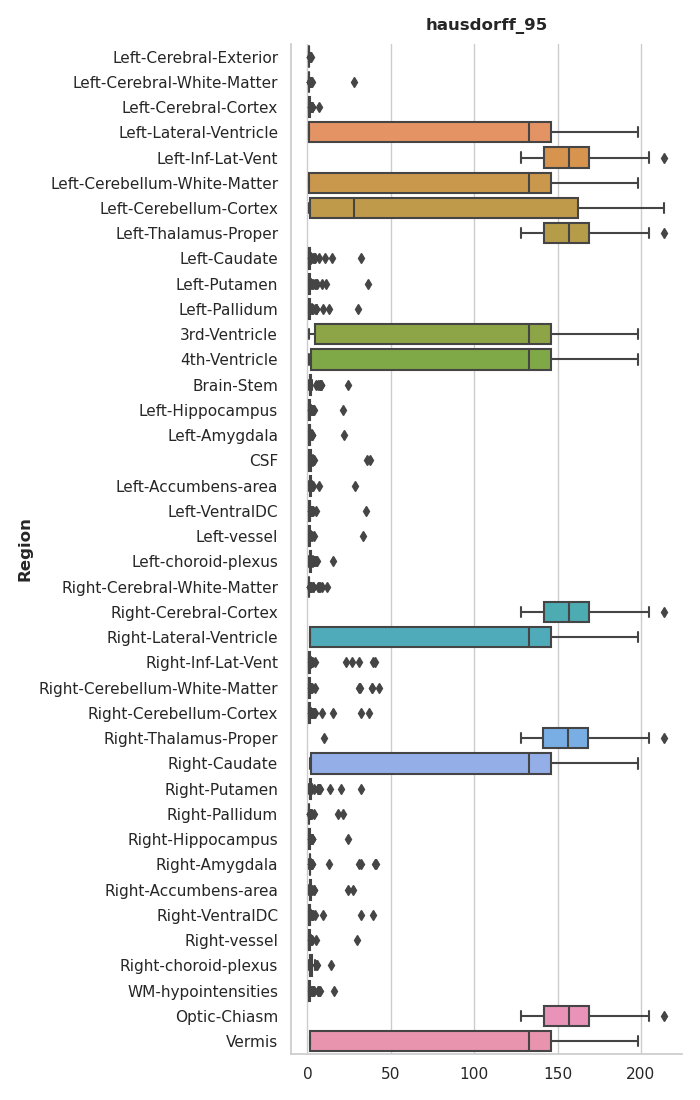
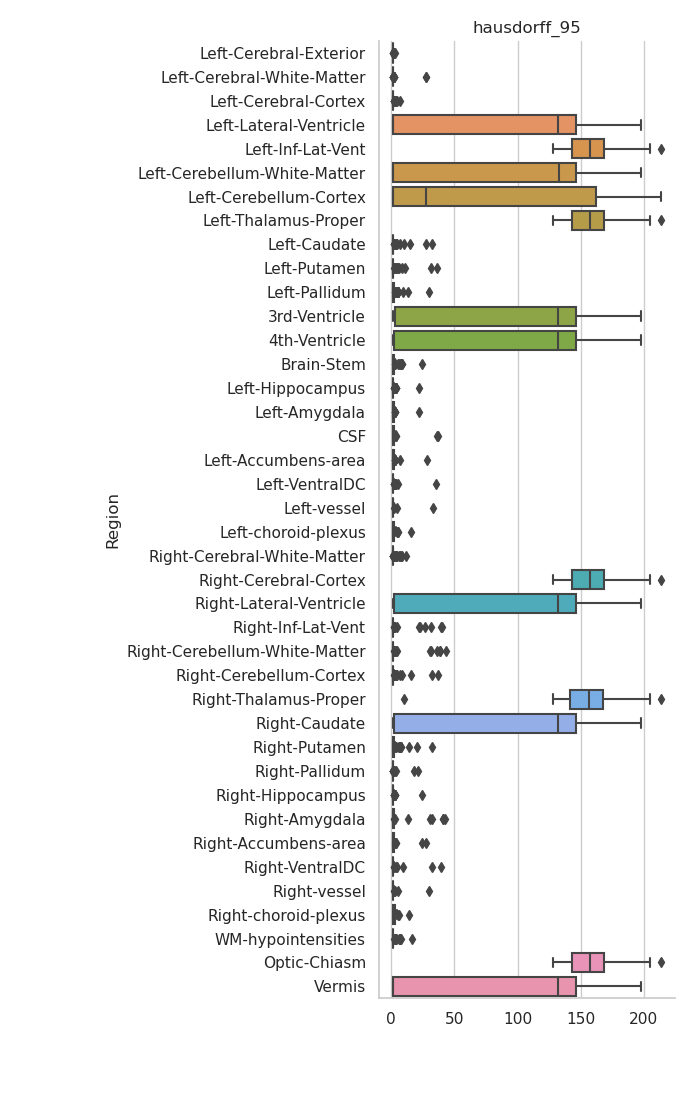
Various changes.

diff --git a/SynthSeg/dcan/paper/correct_chirality_for_folder.py b/SynthSeg/dcan/paper/correct_chirality_for_folder.py
@@ -1,5 +1,6 @@
-import logging
 import os.path
+import re
+
 import nibabel as nib
 
 # Chirality-checking constants
@@ -79,13 +80,24 @@ def correct_chirality(nifti_input_file_path, segment_lookup_table,
 if __name__ == "__main__":
     nn_unet_folder = '/home/feczk001/shared/data/nnUNet/'
     paper_cross_validation_folder = os.path.join(nn_unet_folder, 'segmentations/inferred/PaperCrossValidation/')
-    nifti_input_file = os.path.join(paper_cross_validation_folder, 'Task516_Paper_Fold0/0mo_template_07.nii.gz')
     lookup_table = '../../../data/labels_classes_priors/dcan/FreeSurferColorLUT.txt'
     l_r_mask_nifti_file = '/home/miran045/reine097/projects/CABINET/src/img_processing/Lmask.nii.gz'
-    nifti_output_file = os.path.join(paper_cross_validation_folder, 'chirality_corrected/0mo_template_07.nii.gz')
-    t1w_path = os.path.join(nn_unet_folder, 'raw_data/Task516_525/gt_labels/Fold0/0mo_template_07.nii.gz')
-    j_args = None
-    logger = logging.getLogger("my-logger")
+    for subdir, dirs, files in os.walk(paper_cross_validation_folder):
+        for file in files:
+            file_path = os.path.join(subdir, file)
+            print(file_path)
+            if not file.endswith('.nii.gz'):
+                continue
+            p = re.compile('.*(Fold\d).*')
+            m = p.match(file_path)
+            fold_name = m.group(1)
+            nifti_input_file = file_path
+            nifti_output_folder = os.path.join(paper_cross_validation_folder, f'chirality_corrected/{fold_name}')
+            is_exist = os.path.exists(nifti_output_folder)
+            if not is_exist:
+                os.makedirs(nifti_output_folder)
+            nifti_output_file = os.path.join(nifti_output_folder, f'{file}')
+            t1w_path = os.path.join(nn_unet_folder, f'raw_data/Task516_525/gt_labels/{fold_name}/{file}')
 
-    correct_chirality(nifti_input_file, lookup_table,
-                      l_r_mask_nifti_file, nifti_output_file)
+            correct_chirality(nifti_input_file, lookup_table,
+                              l_r_mask_nifti_file, nifti_output_file)

diff --git a/SynthSeg/dcan/paper/generate_metrics.py b/SynthSeg/dcan/paper/generate_metrics.py
@@ -1,15 +1,18 @@
 # Author: Paul Reiners
+import sys
+
 from SynthSeg.dcan.paper.append_fold_files import append_fold_files
-from SynthSeg.dcan.paper.create_plots import create_violin_plots
+from SynthSeg.dcan.paper.create_plots import create_box_plots, create_cat_plots
 from SynthSeg.dcan.paper.evaluate_results import evaluate_results
 from SynthSeg.dcan.paper.generate_metrics_csv_files import generate_metrics_csv_files
 
 if __name__ == "__main__":
[1 lines of base64/hex data omitted]
+    results_dir = sys.argv[1]
     evaluate_results(results_dir)
     measures = ['dice', 'hausdorff', 'hausdorff_95', 'hausdorff_99', 'mean_distance']
     mapping_file = '../../../data/labels_classes_priors/dcan/Freesurfer_LUT_DCAN.md'
     alternate_mapping_file = '../../../data/labels_classes_priors/dcan/FreeSurferColorLUT.txt'
     generate_metrics_csv_files(results_dir, measures, mapping_file, alternate_mapping_file)
     append_fold_files(results_dir, measures)
-    create_violin_plots(results_dir, measures)
+    create_box_plots(results_dir, measures)
+    create_cat_plots(results_dir, measures)

diff --git a/docs/paper/cross_validation_results.md b/docs/paper/cross_validation_results.md
@@ -1,0 +1,3 @@
+10-fold Cross-validation Results
+================================
+
